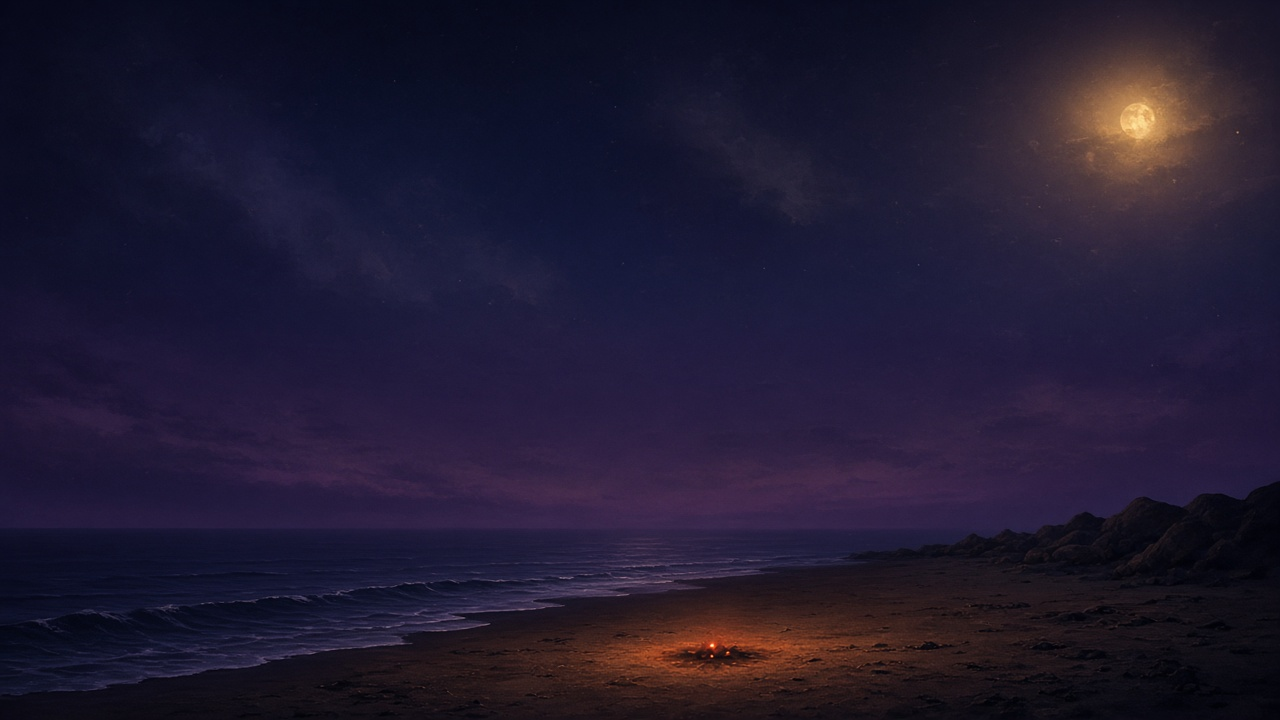
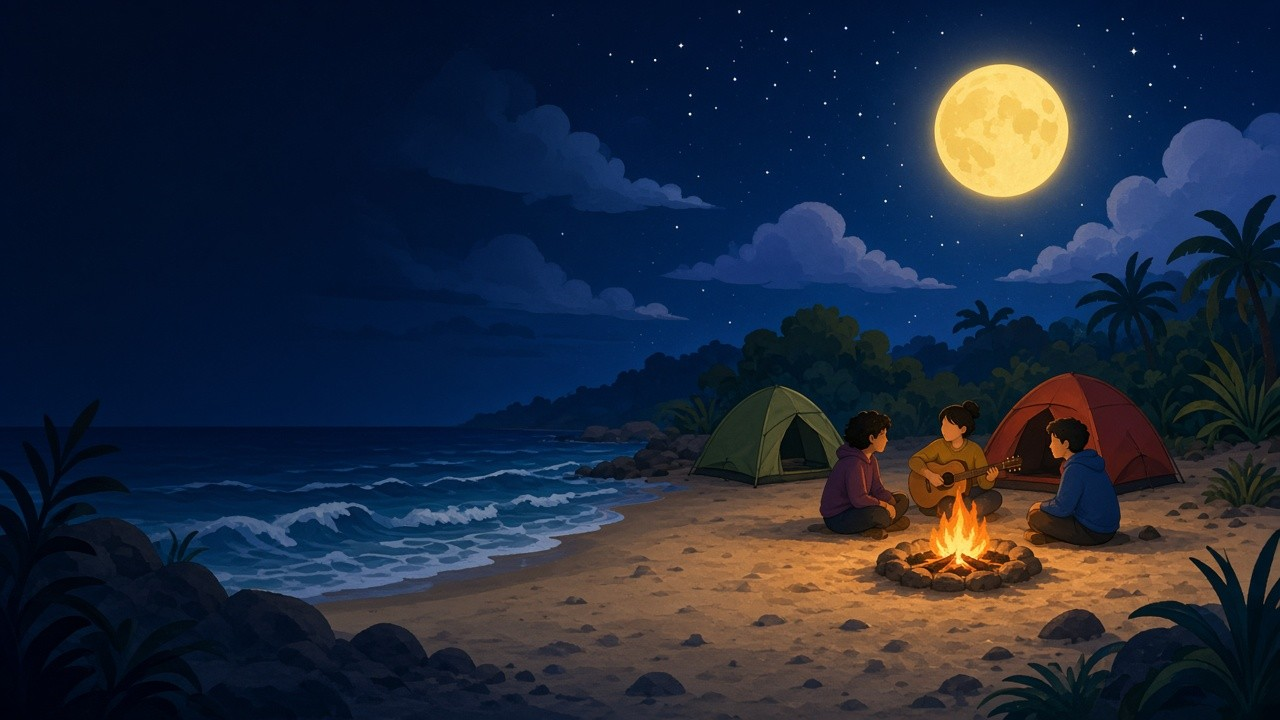
feat: cartoon Open Graph background for event previews
Phase 4 (v0.11.0): replace og-bg.jpg with a cartoon night-beach campsite illustration used by the JPEG OG cards.

diff --git a/app/__init__.py b/app/__init__.py
@@ -1,1 +1,1 @@
-__version__ = "0.10.0"
+__version__ = "0.11.0"

diff --git a/TODO.md b/TODO.md
@@ -33,6 +33,6 @@
 
 9. Страница `/about` + полный список версий
 
-### [ ] Фаза 4 → `0.11.0` (п. 10)
+### [x] Фаза 4 → `0.11.0` (п. 10)
 
 10. Мультяшный фон OG-превью
